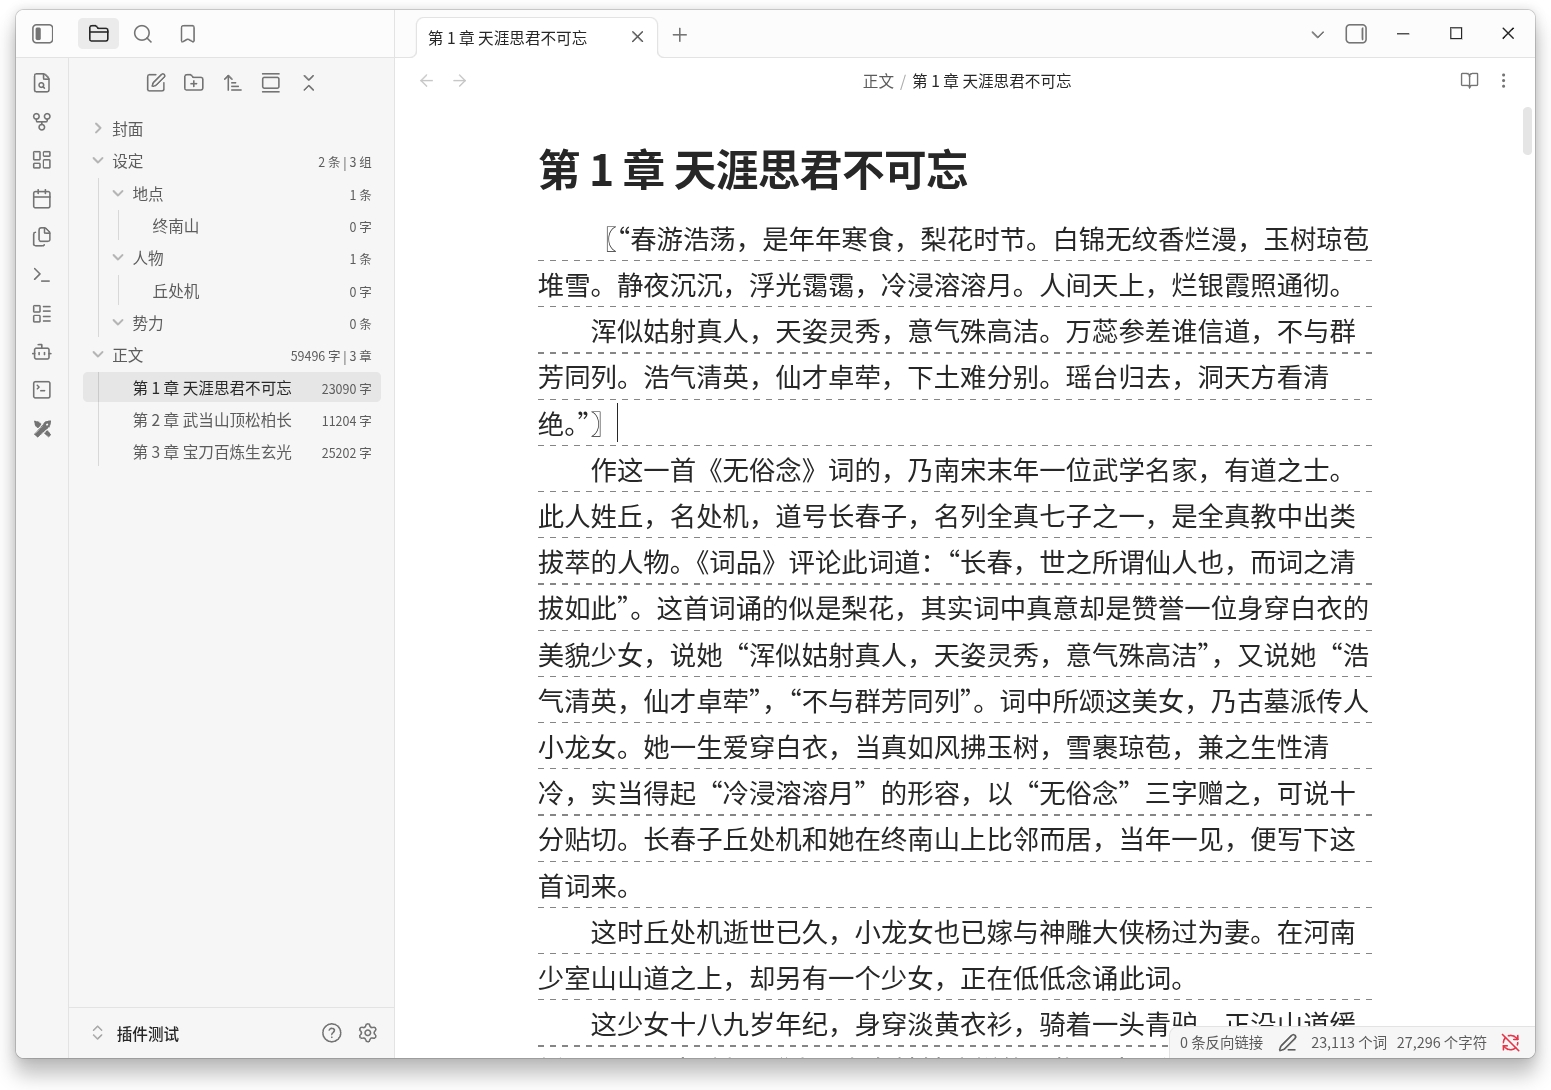
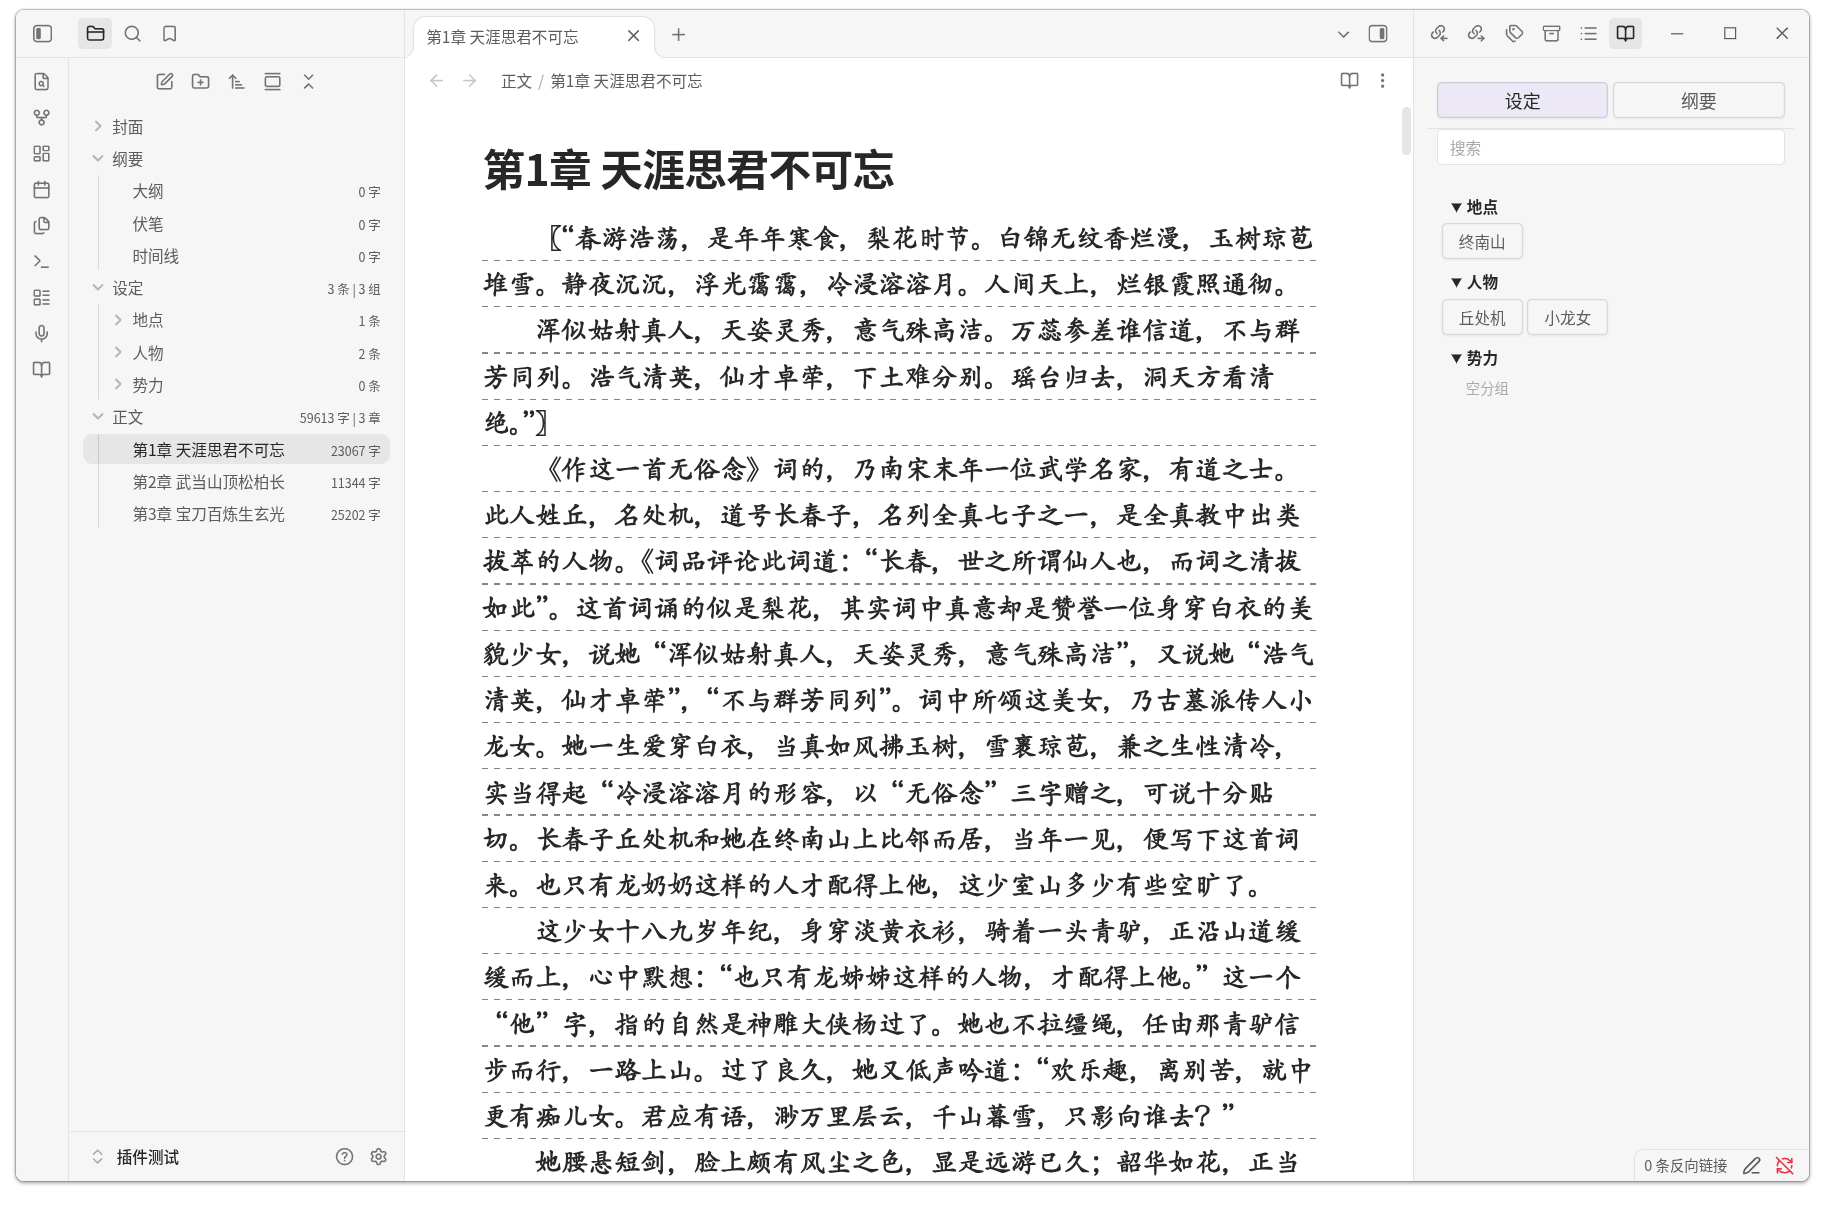
doc(readme): update feature descriptions for sidebar settings and ordering

diff --git a/README.md b/README.md
@@ -10,8 +10,15 @@ Enhance your novel writing experience with various writing tools to keep complex
 
 ### Default directory structure
 
-- One-click creation of the `Lore` and `Novel` folders (localized: `设定`/`正文` in Chinese UI) with settings auto-pointed to them
+- One-click creation of the `Lore`, `Novel`, and `Outline` folders (localized: `设定`/`正文`/`纲要` in Chinese UI) with settings auto-pointed to them; the outline folder holds synopses, detailed outlines, foreshadowing, and timelines
 - Folders that already exist are detected on startup and linked automatically
+
+### Sidebar
+
+- "Lore" and "Outline" tabs at the top with a search box filtering entries on the current page (a matching group name keeps the whole group); one level of groups plus an ungrouped area, Markdown files only
+- Click an entry to preview it inside the sidebar with only a back button on top; vault changes refresh automatically
+- Entries per row are configurable per tab under **Settings → Sidebar** (lore defaults to 4, outline to 1, range 1–10); multi-column and outline entries are centered with ellipsis
+- The lore tab shows groups first with ungrouped notes last; the outline tab shows ungrouped notes first without a header, followed by groups
 
 ### Novel typesetting
 
@@ -27,9 +34,17 @@ Enhance your novel writing experience with various writing tools to keep complex
 ### Quick menu
 
 - **New chapter** (file menu): creates the next chapter in the novel folder with auto-incrementing numbers, supporting digits, Chinese lowercase, and Chinese uppercase, then opens it in the current tab
+- **New volume** (file menu): creates the next volume folder at the novel root with a name-confirmation dialog (auto-numbered, editable)
+- **Dissolve volume** (file menu, novel subfolders only): moves everything inside the volume to the novel root, skipping name conflicts
+- **Renumber chapters** (settings): resequence existing chapters per the counting strategy with a confirmation preview
 - **Add to lore** (editor menu): turns the selected text into a lore note inside a chosen lore subfolder
 - **Sync lore links** / **Clear lore links** (editor menu): wrap or unwrap every lore name in the current note as wikilinks in one click
-- **Chapter conversion** (settings): rename existing chapters between numbering formats
+- **Chapter / volume conversion** (settings): batch-rename existing chapters or volumes between numbering formats
+
+### Punctuation
+
+- Auto-completes the matching closing mark when typing an opening mark (Chinese IME friendly), skips over an existing closing mark, and deletes empty pairs with backspace
+- Disabled inside code blocks, math formulas, and frontmatter; the IME candidate-replacement repair interval is configurable
 
 ### Word count (file explorer)
 

diff --git a/docs/README_zh-CN.md b/docs/README_zh-CN.md
@@ -17,6 +17,8 @@
 
 - 顶部「设定」「纲要」标签切换，右侧搜索框筛选当前页条目（组名命中整组保留）；一层分组 + 未分组区，仅列 Markdown 文件
 - 点击条目在侧边栏内预览正文，顶部只留返回按钮；库内增删改自动刷新
+- 每个分组内每行条目数可在**设置 → 侧栏设置**中分别配置（设定默认 4、纲要默认 1，范围 1-10）；多列与纲要页条目居中单行省略，悬停显示全名
+- 设定页分组在前、未分组区殿后；纲要页未分组文件置顶且无标题，其后是分组内容
 
 ### 正文排版
 
@@ -38,6 +40,11 @@
 - **添加到设定**（编辑菜单）：将选中文本创建为所选设定子文件夹中的设定笔记
 - **同步设定链接** / **清空设定链接**（编辑菜单）：一键为当前笔记中的设定名称包裹或解除 wiki 链接
 - **章节转换** / **分卷转换**（设置页）：在编号格式之间批量重命名既有章节或卷目录
+
+### 标点
+
+- 输入左标点时自动补全右标点，兼容中文输入法；光标后已有右标点时跳过，退格可一次删除空标点对
+- 代码块、公式与 frontmatter 内不触发；输入法候选替换修复间隔可在设置中配置
 
 ### 字数统计（文件列表）
 
